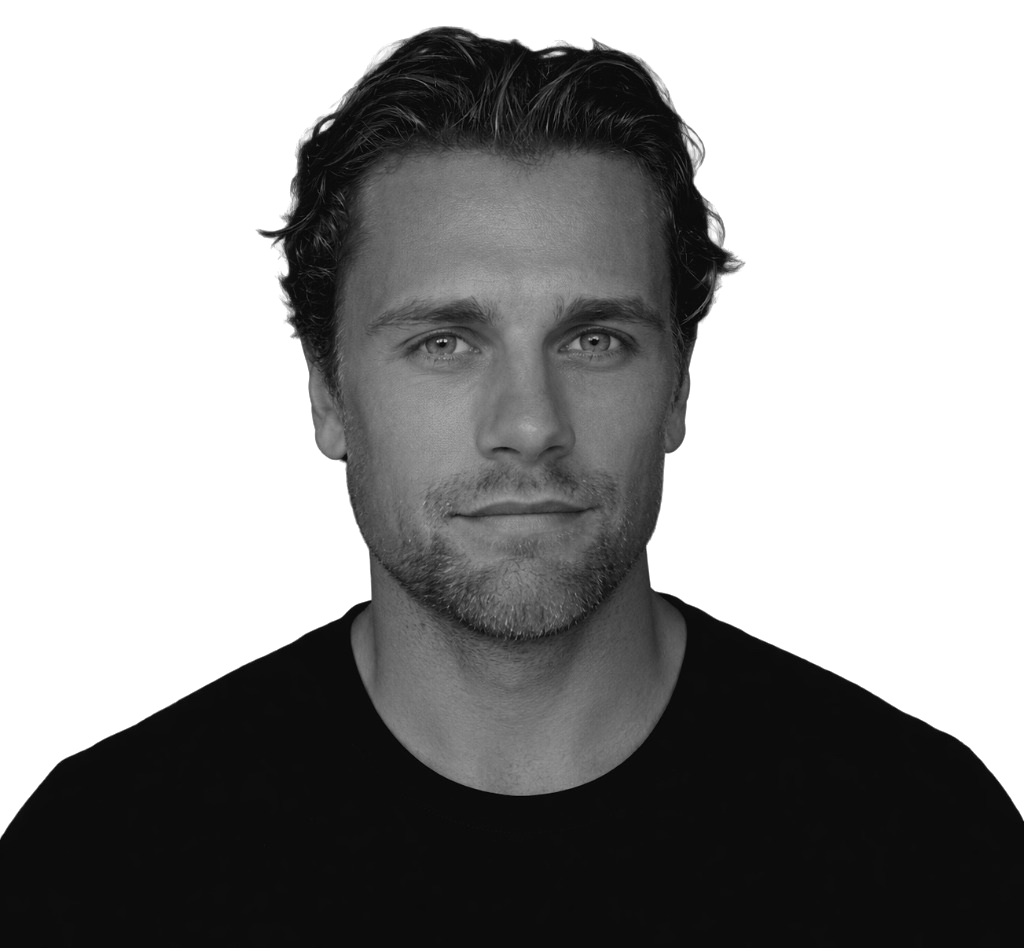
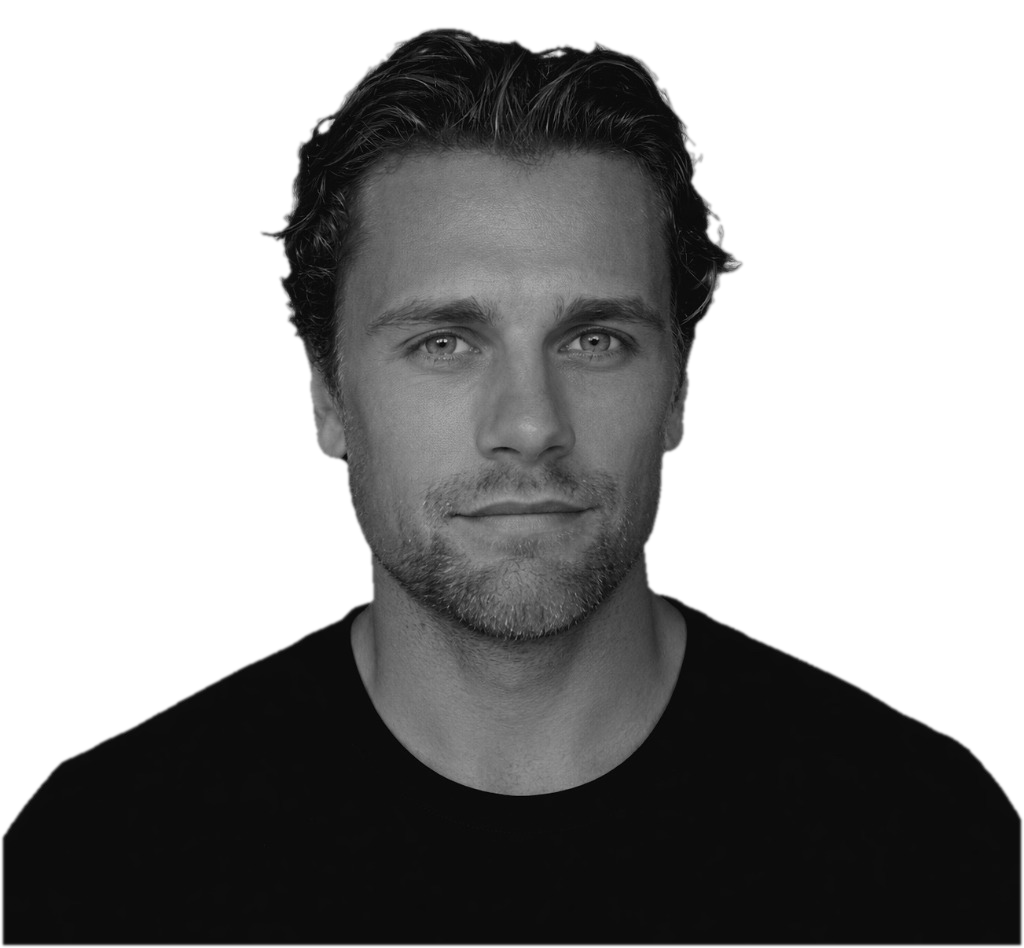
Defringe portrait edges and add studio gradient backdrop

diff --git a/styles.css b/styles.css
@@ -101,7 +101,7 @@ body {
   object-position: center 20%;
   border: 2px solid rgba(239, 235, 230, 0.2);
   box-shadow: 0 16px 36px rgba(0, 0, 0, 0.45);
-  background-color: #0e1116;
+  background: radial-gradient(circle at 50% 30%, #252a34 0%, #14171d 75%);
   transition: var(--transition);
 }
 
